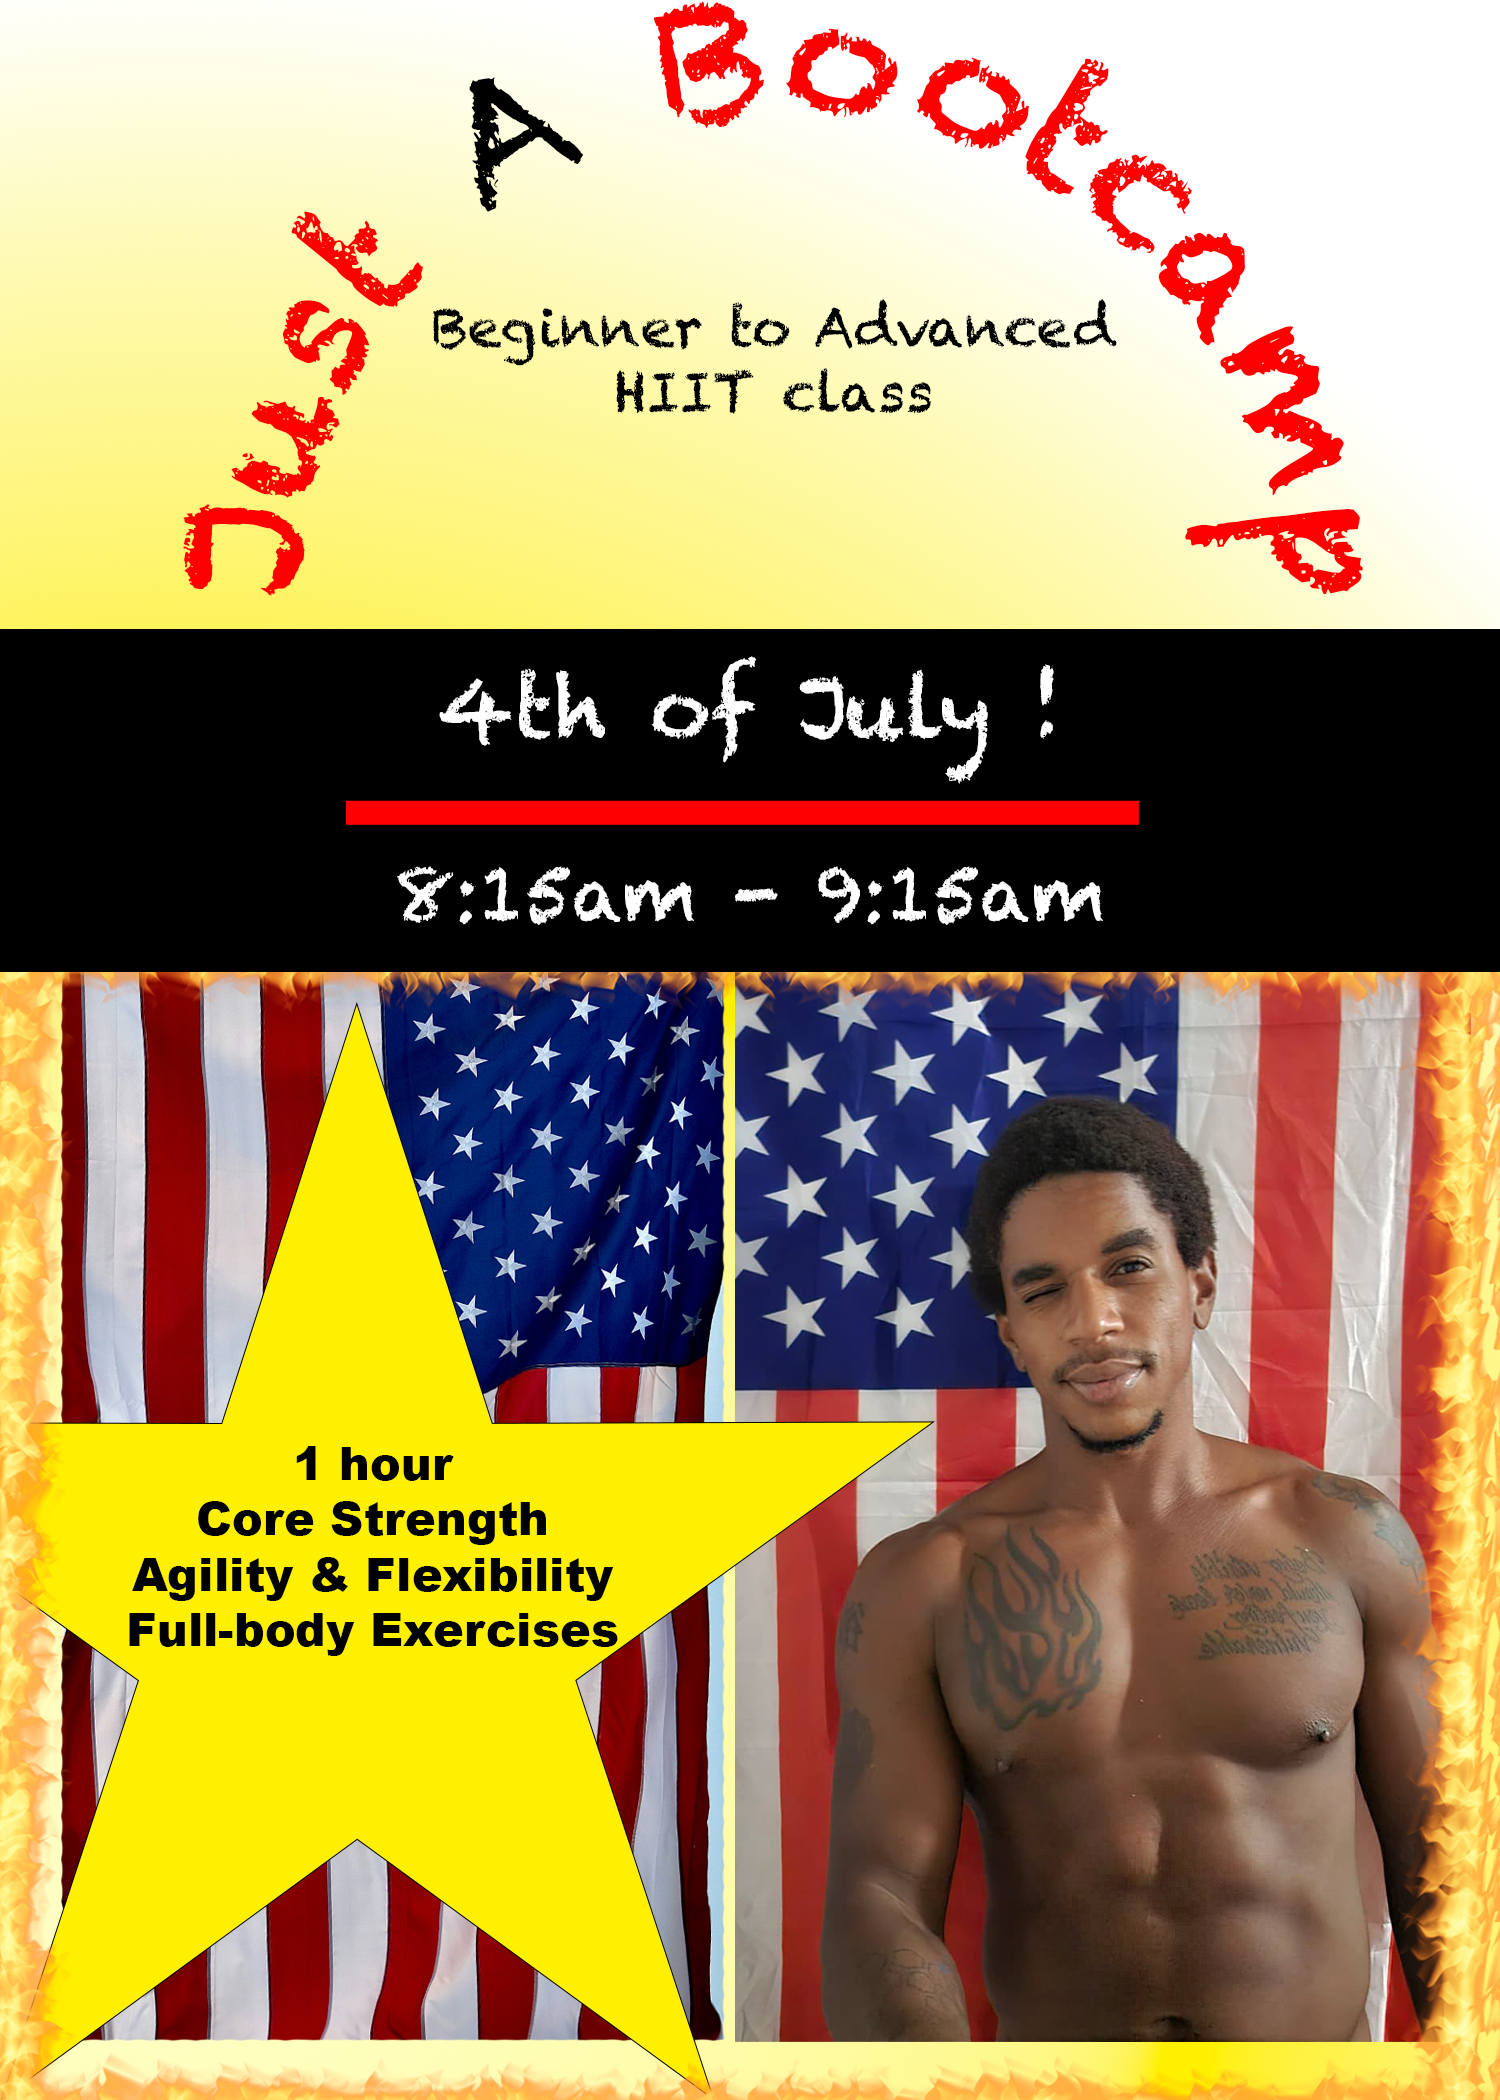
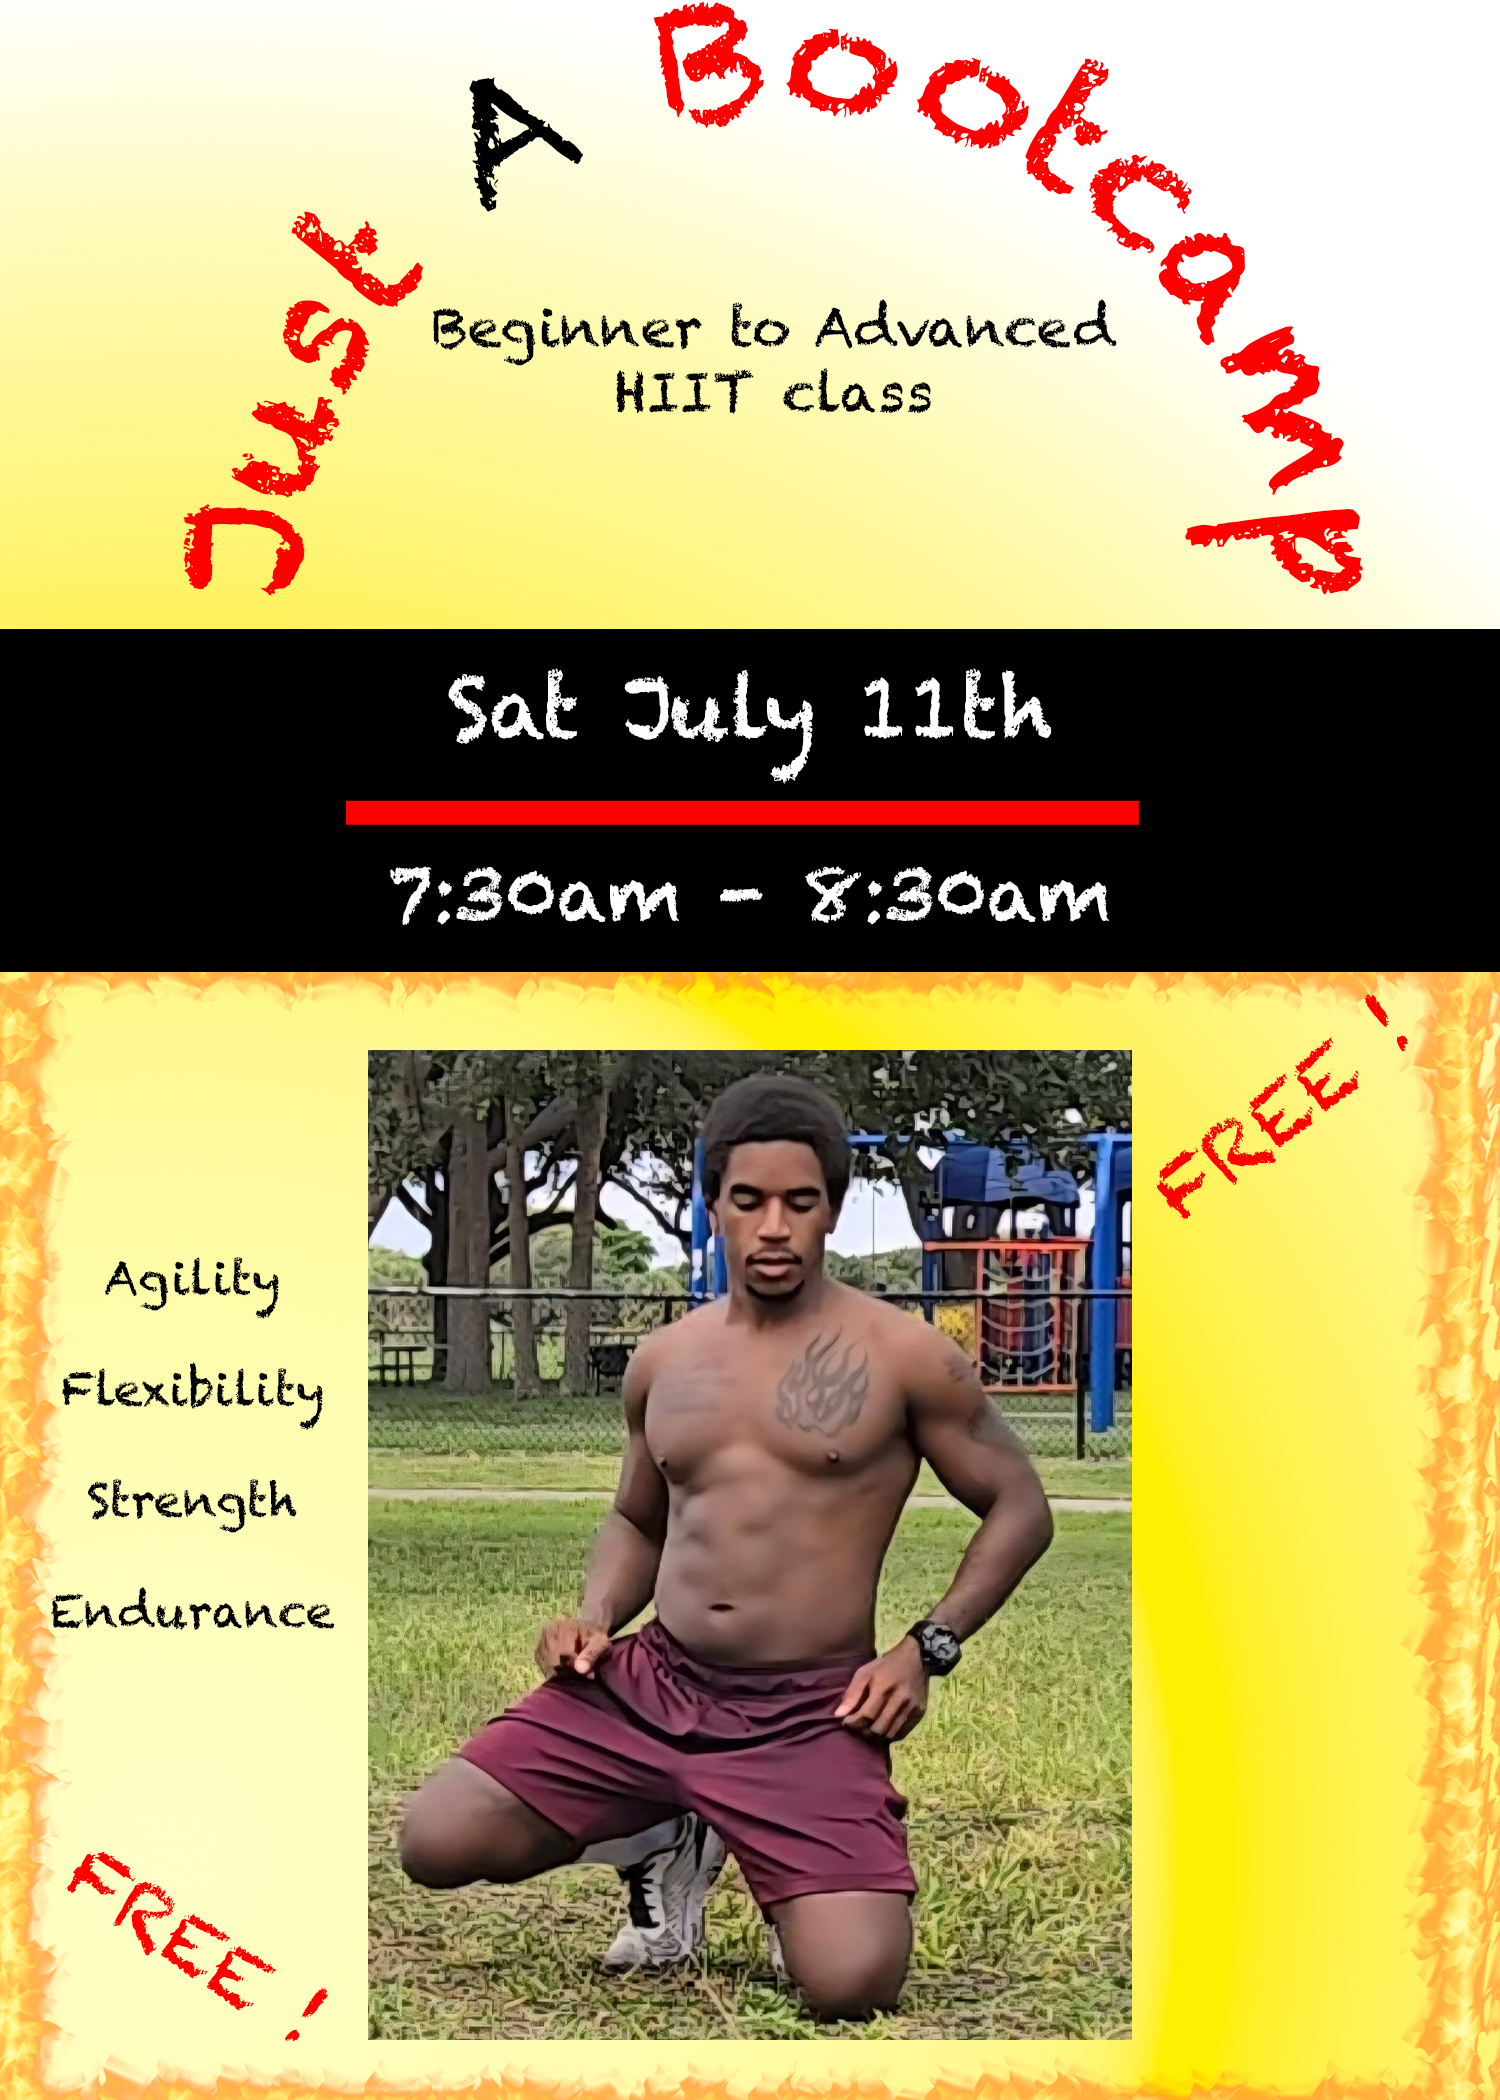
fork: remove newsletter

diff --git a/public/index.html b/public/index.html
@@ -45,7 +45,7 @@
         
         <!-- media -->
          <div id="media-container">
-            <!-- <div id="img-container"><img src="./justabootcamp.png" alt="" id="img-main"></div> -->
+            <div id="img-container"><img src="./justabootcamp.png" alt="" id="img-main"></div>
             <div id="img-container"><img src="./justabootcamplocation.png" alt="" id="img-main"></div>
          </div>
 
@@ -53,7 +53,7 @@
 
     <!-- newsletter -->
 
-    <div id="newsletter-container">
+    <!-- <div id="newsletter-container">
         <div id="newsletter-description-container">
             <p id="newsletter-description">Stay up to date with the latest news!</p>
 
@@ -72,7 +72,7 @@
 
         </div>
 
-    </div>
+    </div> -->
     <footer>
         <div id="contact">
             <h5 id="logo-title-footer" class="header-font">Just <p style="color:#f00 !important">A</p> Bootcamp</h5>
